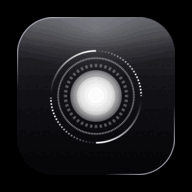
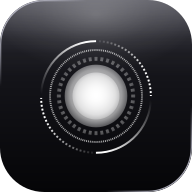
fix: restaurar calidad de imágenes e iconos PWA
- Vuelve a w780/w1280/original en móvil y TV; elimina RGB_565.
- Restaura el blur de los badges y las 10 tarjetas por fila.
- Revierte los iconos PWA al diseño anterior sin margen negro.
- Agrega acceso a Configuración web desde el tab de perfil.

diff --git a/apps/mobile/src/components/poster-card.tsx b/apps/mobile/src/components/poster-card.tsx
@@ -7,7 +7,6 @@ import { Image as NativeImage, View } from 'react-native';
 import Svg, { ClipPath, Defs, Image as SvgImage, Path } from 'react-native-svg';
 import { useTvFocus, tvFocusRing } from '@/hooks/use-tv-focus';
 import { type MediaMeta, tmdbImage } from '@/lib/api';
-import { useLowMemory } from '@/lib/device-capabilities';
 import { useImageGeneration } from '@/lib/image-refresh';
 
 // Badge de Top 10: mismo tamaño (h-7 w-11) y misma silueta que la web.
@@ -58,11 +57,8 @@ export function PosterCard({
   const imgGen = useImageGeneration();
   // En modo horizontal usamos el backdrop; si falta, caemos al póster (recortado
   // a 16/9 con cover).
-  const lowMemory = useLowMemory();
   const imgPath = landscape ? (item.background ?? item.poster) : item.poster;
-  // `w500` cubre de sobra una tarjeta de ~200 dp (600 px a 3x). Antes era
-  // `w780`, un 30–40% más de bitmap para el mismo resultado visual.
-  const imgSize = 'w500';
+  const imgSize = landscape ? 'w780' : 'w500';
   const imageSource = imgPath ? (tmdbImage(imgPath, imgSize) ?? imgPath) : null;
   // Tamaño con el que se dibujan las copias del arte dentro del badge: el real
   // de la tarjeta para quedar alineadas con ella (y mientras aún no está
@@ -120,9 +116,6 @@ export function PosterCard({
               contentFit={item.savedLive ? 'contain' : 'cover'}
               transition={150}
               cachePolicy="memory-disk"
-              // RGB_565 en Android: mitad de RAM por bitmap. Los backdrops y
-              // pósters son JPEG/WebP sin alfa, así que no se nota.
-              decodeFormat="rgb"
               // 1 px de más por cada lado: al mantener pulsada la tarjeta,
               // PressableFeedback la escala (0.985) y el redondeo subpíxel
               // dejaba ver una línea del `bg-muted` del contenedor en el borde
@@ -163,7 +156,7 @@ export function PosterCard({
                 (lo que hay detrás) y el color combina con la tarjeta. Se usa
                 una copia con `blurRadius` en vez de `BlurView` porque en
                 Android/TV el BlurView devolvía una placa gris. */}
-            {imageSource && !lowMemory ? (
+            {imageSource ? (
               <NativeImage
                 source={{ uri: imageSource }}
                 resizeMode="cover"
@@ -191,7 +184,7 @@ export function PosterCard({
             {/* Corte diagonal: carátula nítida (la misma que hay detrás del
                 badge, alineada con la tarjeta) recortada al triángulo que la
                 web quita con el clip-path. */}
-            {imageSource && !lowMemory ? (
+            {imageSource ? (
               <Svg
                 pointerEvents="none"
                 style={{ position: 'absolute', top: 0, left: 0 }}
@@ -247,35 +240,20 @@ export function PosterCard({
               overflow: 'hidden',
             }}
           >
-            {lowMemory ? (
-              // En gama baja el blur es caro y compite con el decoder: mismo
-              // contraste con un fondo plano.
-              <View
-                style={{
-                  position: 'absolute',
-                  top: 0,
-                  right: 0,
-                  bottom: 0,
-                  left: 0,
-                  backgroundColor: 'rgba(0,0,0,0.6)',
-                }}
-              />
-            ) : (
-              <BlurView
-                blurTarget={blurTargetRef}
-                blurMethod="dimezisBlurViewSdk31Plus"
-                intensity={60}
-                tint="dark"
-                style={{
-                  position: 'absolute',
-                  top: 0,
-                  right: 0,
-                  bottom: 0,
-                  left: 0,
-                  backgroundColor: 'rgba(0,0,0,0.45)',
-                }}
-              />
-            )}
+            <BlurView
+              blurTarget={blurTargetRef}
+              blurMethod="dimezisBlurViewSdk31Plus"
+              intensity={60}
+              tint="dark"
+              style={{
+                position: 'absolute',
+                top: 0,
+                right: 0,
+                bottom: 0,
+                left: 0,
+                backgroundColor: 'rgba(0,0,0,0.45)',
+              }}
+            />
             <CircleCheck size={16} color="#fff" />
           </View>
         ) : null}

diff --git a/apps/mobile/src/app/(tabs)/settings.tsx b/apps/mobile/src/app/(tabs)/settings.tsx
@@ -1,5 +1,6 @@
 import { Image } from 'expo-image';
 import { router, useFocusEffect } from 'expo-router';
+import * as WebBrowser from 'expo-web-browser';
 import { GlassIcon } from '@/components/glass-icon';
 import { LanguageSheet } from '@/components/language-sheet';
 import { SUPPORTED_LANGUAGES } from '@/lib/i18n/languages';
@@ -13,7 +14,14 @@ import {
 } from 'heroui-native';
 import { type ComponentProps, useCallback, useEffect, useState } from 'react';
 import { useTranslation } from 'react-i18next';
-import { Alert, Platform, Pressable, ScrollView, View } from 'react-native';
+import {
+  Alert,
+  Linking,
+  Platform,
+  Pressable,
+  ScrollView,
+  View,
+} from 'react-native';
 import { useSafeAreaInsets } from 'react-native-safe-area-context';
 import { LoginOptionsSheet } from '@/components/login-options-sheet';
 import { useAppSurface } from '@/hooks/use-app-surface';
@@ -24,7 +32,7 @@ import {
   checkAppUpdate,
   installedAppVersion,
 } from '@/lib/app-update';
-import { clearAccessToken } from '@/lib/auth';
+import { API_URL, clearAccessToken } from '@/lib/auth';
 import { useTvFocus, tvFocusRing } from '@/hooks/use-tv-focus';
 import { avatarSource } from '@/lib/avatars';
 import {
@@ -77,6 +85,7 @@ export default function SettingsTab() {
   const [loginOpen, setLoginOpen] = useState(false);
   const [checkingUpdate, setCheckingUpdate] = useState(false);
   const updateFocus = useTvFocus();
+  const webSettingsFocus = useTvFocus();
 
   // El perfil activo se carga aparte: copia local al instante y, con red,
   // contraste con el backend (el avatar o el nombre pueden haberse cambiado
@@ -197,6 +206,20 @@ export default function SettingsTab() {
       setCheckingUpdate(false);
     }
   }, [checkingUpdate, t]);
+
+  // Abre la Configuración completa de Onevid en la web (addons, debrid,
+  // catálogo, perfiles, calidad…). En TV algunos navegadores no soportan
+  // Custom Tabs; si falla, cae al navegador del sistema.
+  const handleOpenWebSettings = useCallback(async () => {
+    const url = `${API_URL}/home/account`;
+    try {
+      await WebBrowser.openBrowserAsync(url);
+    } catch {
+      await Linking.openURL(url).catch(() => {
+        Alert.alert(t('No se pudo abrir el navegador'));
+      });
+    }
+  }, [t]);
 
   // Vuelve a la bienvenida (salir del modo local): deja el modo por defecto
   // para que un arranque en frío vuelva a mostrar la elección de cuenta.
@@ -346,6 +369,25 @@ export default function SettingsTab() {
                   label={currentLanguageLabel}
                   onPress={() => setLangOpen(true)}
                 />
+                <Separator className="mx-4" />
+                <ListGroup.Item
+                  onPress={() => void handleOpenWebSettings()}
+                  {...webSettingsFocus.focusProps}
+                  style={tvFocusRing(webSettingsFocus.focused)}
+                >
+                  <ListGroup.ItemPrefix>
+                    <GlassIcon name="circle-arrow-right" size={24} />
+                  </ListGroup.ItemPrefix>
+                  <ListGroup.ItemContent>
+                    <ListGroup.ItemTitle>
+                      {t('Configuración web')}
+                    </ListGroup.ItemTitle>
+                    <ListGroup.ItemDescription>
+                      {t('Abre la configuración completa en el navegador.')}
+                    </ListGroup.ItemDescription>
+                  </ListGroup.ItemContent>
+                  <ListGroup.ItemSuffix />
+                </ListGroup.Item>
               </ListGroup>
             ) : null}
 

diff --git a/apps/mobile/src/app/detail/[type]/[id]/index.tsx b/apps/mobile/src/app/detail/[type]/[id]/index.tsx
@@ -74,7 +74,7 @@ export default function DetailPage() {
   const lang = i18n.language;
   const { height } = useWindowDimensions();
   const queryClient = useQueryClient();
-  const { isTV, rowCardWidth } = useResponsive();
+  const { isTV, isLarge, rowCardWidth } = useResponsive();
   const playFocus = useTvFocus();
   const watchFocus = useTvFocus();
   const favFocus = useTvFocus();
@@ -254,16 +254,16 @@ export default function DetailPage() {
 
   const artParams = useMemo(
     () => ({
-      // `w1280` es suficiente para el backdrop a pantalla completa y evita que
-      // un 'original' 4K (~33 MB en ARGB) reviente la RAM en TV/gama baja.
-      background: tmdbImage(meta?.background, 'w1280') ?? '',
+      // En TV pasamos el backdrop en alta resolución al reproductor/fuentes.
+      background:
+        tmdbImage(meta?.background, isLarge ? 'original' : 'w1280') ?? '',
       logo: meta?.logo ?? '',
       title: meta?.name ?? '',
       // Póster (2:3) que el player guarda en el progreso para que "Continuar
       // viendo" pueda mostrar la carátula del título.
       poster: meta?.poster ?? '',
     }),
-    [meta?.background, meta?.logo, meta?.name, meta?.poster],
+    [meta?.background, meta?.logo, meta?.name, meta?.poster, isLarge],
   );
 
   // Pre-warm: en cuanto sabemos qué se va a reproducir (la peli, o el 1.er
@@ -396,14 +396,14 @@ export default function DetailPage() {
               source={
                 tmdbImage(
                   meta.background ?? meta.poster,
-                  // `w1280` cubre 1080p sin el coste de un 'original' 4K.
-                  'w1280',
+                  // En pantallas grandes/TV pedimos la máxima resolución para
+                  // que el backdrop no se vea pixelado.
+                  isLarge ? 'original' : 'w1280',
                 ) ?? ''
               }
               contentFit="cover"
               transition={200}
               cachePolicy="memory-disk"
-              decodeFormat="rgb"
               style={{ width: '100%', height: '100%' }}
             />
           ) : (

diff --git a/apps/mobile/src/lib/home-feed.ts b/apps/mobile/src/lib/home-feed.ts
@@ -1,6 +1,5 @@
 import type { QueryClient } from '@tanstack/react-query';
 import { Image } from 'expo-image';
-import { Platform } from 'react-native';
 import type { ContinueWatchingItem } from '@/components/home/continue-watching-row';
 import {
   apiFetch,
@@ -50,29 +49,25 @@ export const continueWatchingQuery = (lang: string) => ({
     ),
 });
 
-export function prefetchMediaImages(items: MediaMeta[], limit = 12): void {
+export function prefetchMediaImages(items: MediaMeta[], limit = 16): void {
   const urls = items
-    .map((it) => tmdbImage(it.background ?? it.poster, 'w500'))
+    .map((it) => tmdbImage(it.background ?? it.poster, 'w780'))
     .filter((u): u is string => Boolean(u))
     .slice(0, limit);
   if (urls.length > 0) {
-    // `disk`, no `memory-disk`: descarga sin retener bitmaps decodificados en
-    // RAM. El `Image` los decodifica al montarse. En un 2 GB, precargar 12
-    // imágenes en memoria durante el arranque era un pico innecesario.
-    Image.prefetch(urls, { cachePolicy: 'disk' }).catch(() => undefined);
+    Image.prefetch(urls, { cachePolicy: 'memory-disk' }).catch(() => undefined);
   }
 }
 
 /** Precarga las carátulas del hero (lo primero que se ve al entrar). */
 export async function prefetchHeroImages(items: MediaMeta[]): Promise<void> {
-  // Mismo tamaño que renderiza HeroCarousel: `w780` en móvil, `w1280` en TV.
-  // Antes se precargaba `w780` y el móvil renderizaba `w1280` → dos descargas.
-  const size = Platform.isTV ? 'w1280' : 'w780';
   const urls = items
-    .map((it) => tmdbImage(it.background ?? it.poster, size))
+    .map((it) => tmdbImage(it.background ?? it.poster, 'w780'))
     .filter((u): u is string => Boolean(u));
   if (urls.length === 0) return;
-  await Image.prefetch(urls, { cachePolicy: 'disk' }).catch(() => undefined);
+  await Image.prefetch(urls, { cachePolicy: 'memory-disk' }).catch(
+    () => undefined,
+  );
 }
 
 /** Precarga las primeras carátulas de cada fila (después del hero). */

diff --git a/apps/mobile/src/components/home/hero-carousel.tsx b/apps/mobile/src/components/home/hero-carousel.tsx
@@ -155,12 +155,11 @@ function HeroSlide({
   // En TV alineamos el contenido a la izquierda (estilo Netflix/Apple TV) y
   // mostramos la sinopsis. En móvil se mantiene centrado y sin descripción.
   const isTV = Platform.isTV;
-  // `w1280` en TV y `w780` en móvil. Antes TV pedía 'original': un backdrop 4K
-  // decodificado en ARGB son ~33 MB por slide y en un TV barato de 2 GB podía
-  // tirar la app. `w1280` se ve bien a 1080p y pesa una fracción. El
-  // placeholder 'w185' se muestra al instante mientras carga la versión grande
-  // (evita hero en negro si el reproductor desaloja las imágenes de RAM).
-  const bg = tmdbImage(item.background ?? item.poster, isTV ? 'w1280' : 'w780');
+  // En TV pedimos el backdrop en 'original' (pantalla grande, se agradece la
+  // máxima calidad); en móvil 'w1280' basta. El placeholder 'w185' se muestra
+  // al instante mientras carga la versión grande (evita hero en negro si el
+  // reproductor desaloja las imágenes grandes de RAM en gama baja).
+  const bg = tmdbImage(item.background ?? item.poster, isTV ? 'original' : 'w1280');
   const lowRes = tmdbImage(item.background ?? item.poster, 'w185');
   // Logo del título (imagen tipográfica de TMDB) en vez del nombre en texto.
   // El catálogo no trae logo, así que lo pedimos aparte y lo cacheamos por
@@ -185,9 +184,6 @@ function HeroSlide({
           contentFit="cover"
           transition={200}
           cachePolicy="memory-disk"
-          // RGB_565 en Android: la mitad de RAM por bitmap. El hero no tiene
-          // transparencia, así que no hay pérdida visible de alfa.
-          decodeFormat="rgb"
           style={{ width: '100%', height: '100%' }}
         />
       ) : (

diff --git a/apps/mobile/src/components/home/poster-row.tsx b/apps/mobile/src/components/home/poster-row.tsx
@@ -7,7 +7,6 @@ import { PosterCard } from '@/components/poster-card';
 import { useResponsive } from '@/hooks/use-responsive';
 import { useTvFocus, tvFocusRing } from '@/hooks/use-tv-focus';
 import type { MediaMeta } from '@/lib/api';
-import { useLowMemory } from '@/lib/device-capabilities';
 import { navigateToCatalog, parseFeedHref } from '@/lib/catalog-nav';
 import { COLORS } from '@/lib/theme';
 import { useWatchState } from '@/lib/watch-state';
@@ -41,13 +40,11 @@ export function PosterRow({
   // Tarjetas horizontales (16/9) del mismo tamaño que "Continuar viendo"
   // (rowCardWidth), para que todas las filas de catálogo se vean consistentes.
   const { rowCardWidth } = useResponsive();
-  const lowMemory = useLowMemory();
   const watchState = useWatchState();
   const cardAspectRatio = 16 / 9;
   const CARD_WIDTH = rowCardWidth;
-  // Solo las primeras 8/10; el botón "Ver todos" lleva a la grilla completa.
-  // En gama baja montamos 8 para reducir bitmaps vivos sin dejar la fila vacía.
-  const shown = items.slice(0, lowMemory ? 8 : ROW_ITEM_CAP);
+  // Solo las primeras 10; el botón "Ver todos" lleva a la grilla completa.
+  const shown = items.slice(0, ROW_ITEM_CAP);
   const rowParams = href ? parseFeedHref(href) : null;
   const renderItem = useCallback(
     ({ item }: { item: MediaMeta }) => (

diff --git a/apps/web/src/app/manifest.ts b/apps/web/src/app/manifest.ts
@@ -18,21 +18,13 @@ export default function manifest(): MetadataRoute.Manifest {
         src: "/onevid-pwa-192.png",
         sizes: "192x192",
         type: "image/png",
-        // `any` (no `maskable`): así el sistema no recorta el filo del logo.
-        purpose: "any",
+        purpose: "maskable",
       },
       {
         src: "/onevid-pwa-512.png",
         sizes: "512x512",
         type: "image/png",
         purpose: "any",
-      },
-      {
-        // Versión con margen de seguridad para lanzadores que exigen maskable.
-        src: "/onevid-pwa-maskable-512.png",
-        sizes: "512x512",
-        type: "image/png",
-        purpose: "maskable",
       },
     ],
     shortcuts: [

diff --git a/apps/web/src/app/layout.tsx b/apps/web/src/app/layout.tsx
@@ -36,20 +36,6 @@ export const metadata: Metadata = {
   },
   description: "Reproductor de video",
   metadataBase: new URL("https://onevid.hackw.tech"),
-  icons: {
-    icon: [
-      { url: "/onevid-pwa-192.png", sizes: "192x192", type: "image/png" },
-      { url: "/onevid-pwa-512.png", sizes: "512x512", type: "image/png" },
-    ],
-    apple: [
-      {
-        url: "/onevid-apple-touch-180.png",
-        sizes: "180x180",
-        type: "image/png",
-      },
-    ],
-    shortcut: ["/onevid-pwa-192.png"],
-  },
   openGraph: {
     type: "website",
     title: "Onevid",
